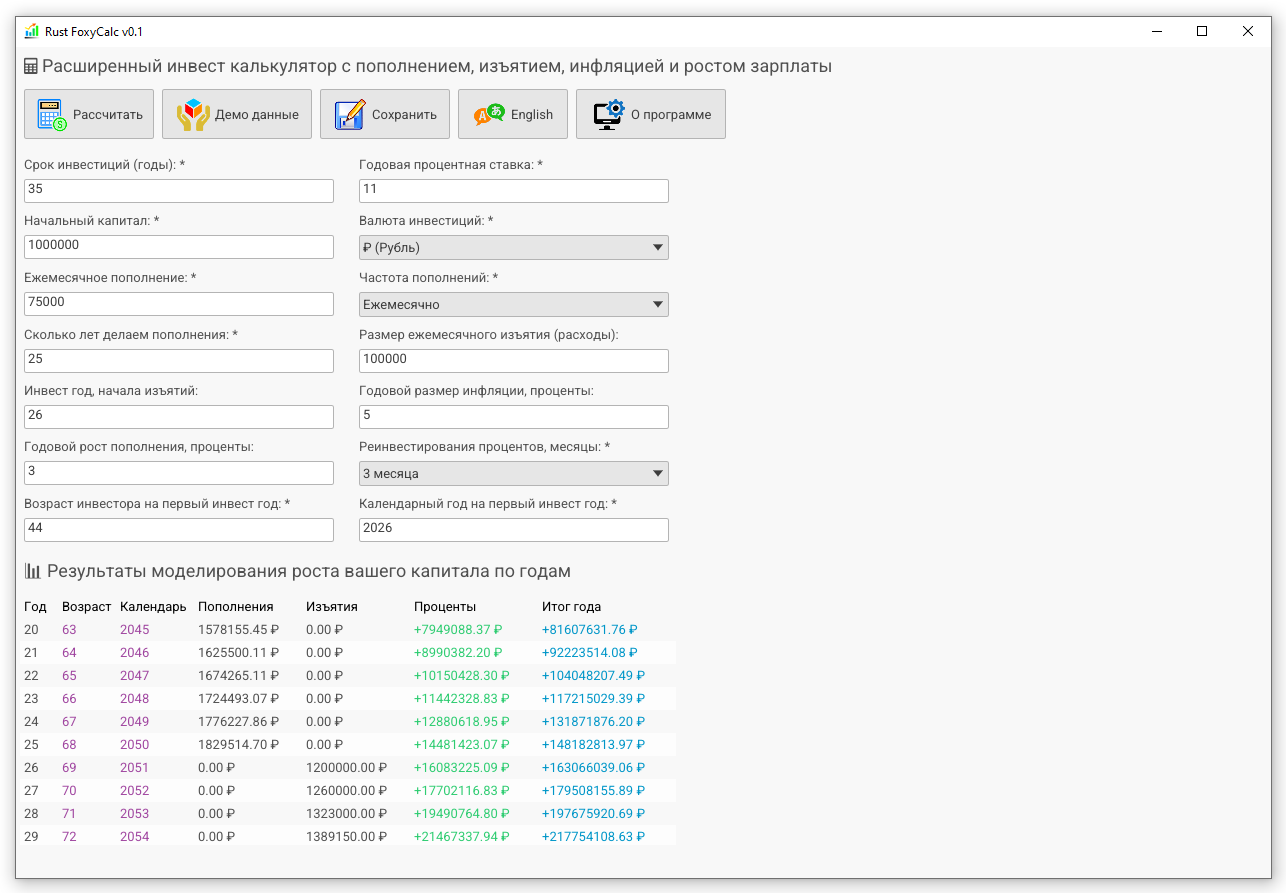
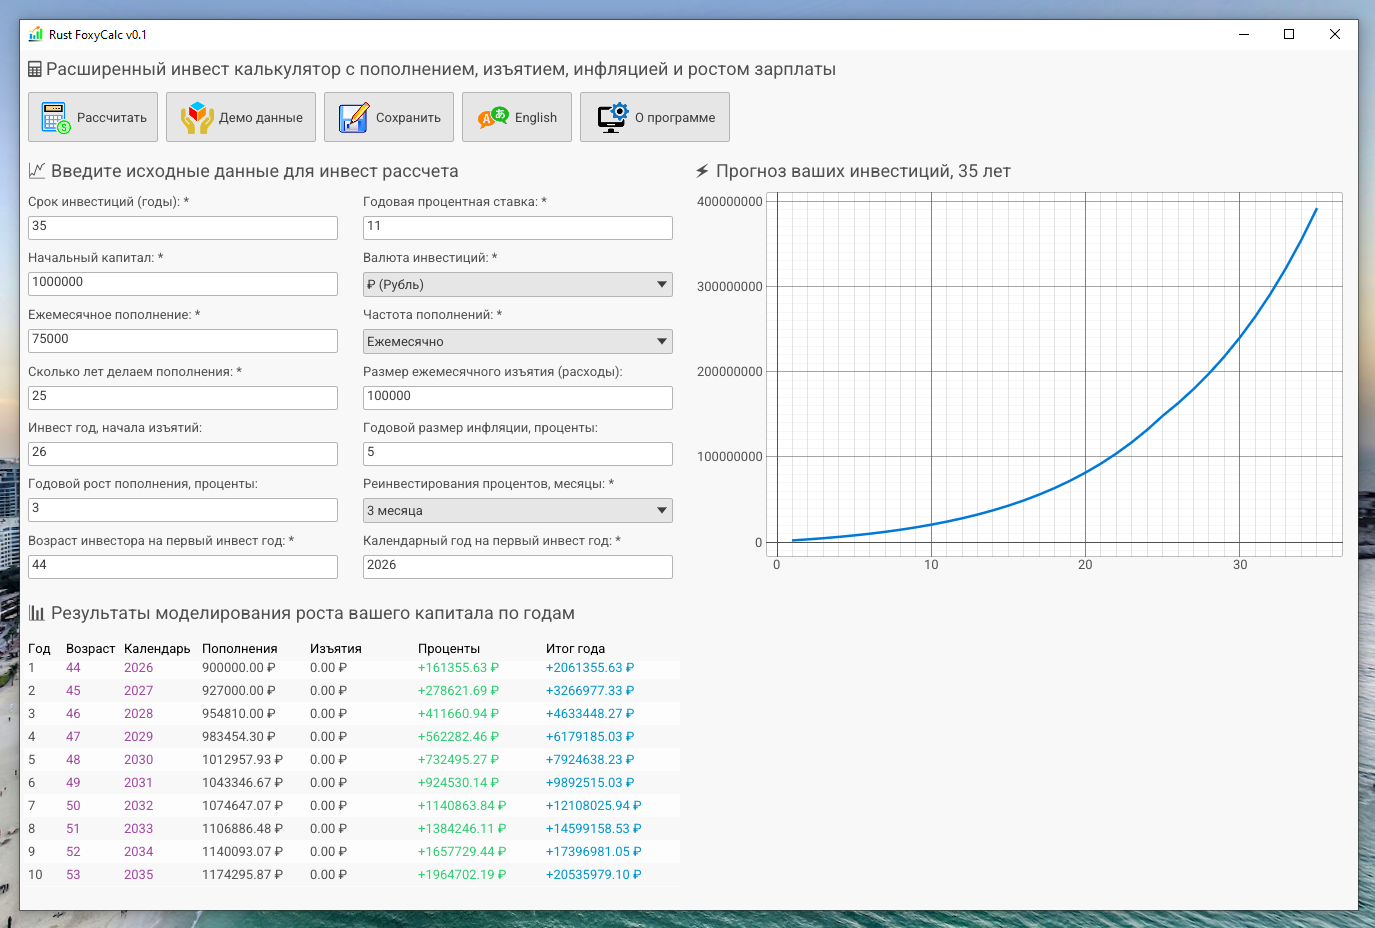
Added a graph visualization, for invest calc data

diff --git a/src/main.rs b/src/main.rs
@@ -1,6 +1,7 @@
 #![cfg_attr(not(debug_assertions), windows_subsystem = "windows")] // hide console window on Windows in release
 
 use eframe::egui;
+use egui_plot::{Line, Plot, PlotPoints};
 
 fn configure_app_styles(cc: &eframe::CreationContext<'_>) {
     // 1. Настройка темы Theme::Dark / Theme::Light
@@ -515,6 +516,9 @@ impl MyApp {
         let combo_box_width: f32 = 310.0;
         let edit_space: f32 = 7.0;
 
+        ui.heading("📈 Введите исходные данные для инвест рассчета");
+        ui.add_space(10.0);
+
         // ======= СТРОКА 1 =======
         ui.horizontal(|ui| {
             ui.spacing_mut().item_spacing.x = 25.0; // Горизонтальный отступ между блоками ввода
@@ -783,6 +787,40 @@ impl MyApp {
         }
     }
 
+    fn plot_graph(&mut self, ui: &mut egui::Ui) {
+        if !self.calc_result_rows.is_empty() {
+            ui.vertical(|ui| {
+                let years_count = self.calc_result_rows.len();
+                ui.heading(format!("⚡ Прогноз ваших инвестиций, {} лет", years_count));
+                ui.add_space(8.0);
+
+                let points: PlotPoints = self.calc_result_rows
+                    .iter()
+                    .map(|row| [row.invest_year as f64, row.end_balance])
+                    .collect();
+
+                // ТЕПЕРЬ СИНТАКСИС РАБОТАЕТ: передаем имя линии и точки, красим в синий
+                let line = Line::new("Капитал", points)
+                    .color(egui::Color32::from_rgb(0, 120, 215)) 
+                    .width(2.5_f32);
+
+                // Настройка самого холста графика
+                Plot::new("investment_growth_plot")
+                    .width(650.0)
+                    .height(380.0)
+                    .allow_zoom(true)
+                    .allow_drag(true)
+                    // В версии 0.33 для белого фона используется метод fill_color
+                    //.background_color(egui::Color32::WHITE) 
+                    .show(ui, |plot_ui| {
+                        plot_ui.line(line);
+                    });
+            });
+        } else {
+            ui.label("Нажмите кнопку 'Рассчитать', чтобы увидеть график прогноза.");
+        }
+    }
+
 } // impl MyApp
 
 //=======================================================================================
@@ -801,18 +839,35 @@ impl eframe::App for MyApp {
             ui.add_space(15.0);
 
             //================================================================
-            // Отрисовка 12 labels и text edits
+            // Делим интерфейс строго на 2 столбца фиксированной пропорции
             //================================================================
-            self.draw_text_edits(ui);
-            ui.add_space(15.0);
+            ui.columns(2, |columns| {
+                // Увеличиваем отступ между колонками для читаемости
+                // Разделяем массив на две независимые изменяемые ссылки
+                let [left_ui, right_ui] = columns else { todo!() };
 
-            //================================================================
-            // Рассчет и трисовка таблицы с результатами
-            //================================================================
-            ui.heading("📊 Результаты моделирования роста вашего капитала по годам");
-            ui.add_space(10.0);
-            self.draw_results_table(ui);
-            ui.add_space(10.0);
+                // --- ЛЕВЫЙ СТОЛБЕЦ ---
+                left_ui.vertical(|ui| {
+                    // Отрисовка 12 labels и text edits
+                    self.draw_text_edits(ui);
+                    ui.add_space(20.0);
+
+                    ui.heading("📊 Результаты моделирования роста вашего капитала по годам");
+                    ui.add_space(10.0);
+                    
+                    // Рендерим таблицу. Теперь она ограничена шириной левой колонки
+                    self.draw_results_table(ui);
+                });
+
+                // --- ПРАВЫЙ СТОЛБЕЦ ---
+                right_ui.vertical(|ui| {
+                    // Отображение графика роста инвестиций (теперь он точно влезет)
+                    self.plot_graph(ui);
+                    
+                    // Сюда можно добавлять элементы, которые будут "ниже" графика
+                    ui.add_space(15.0);
+                });
+            });
 
             //================================================================
             // Отображение MessageBox об ошибке парсинга
